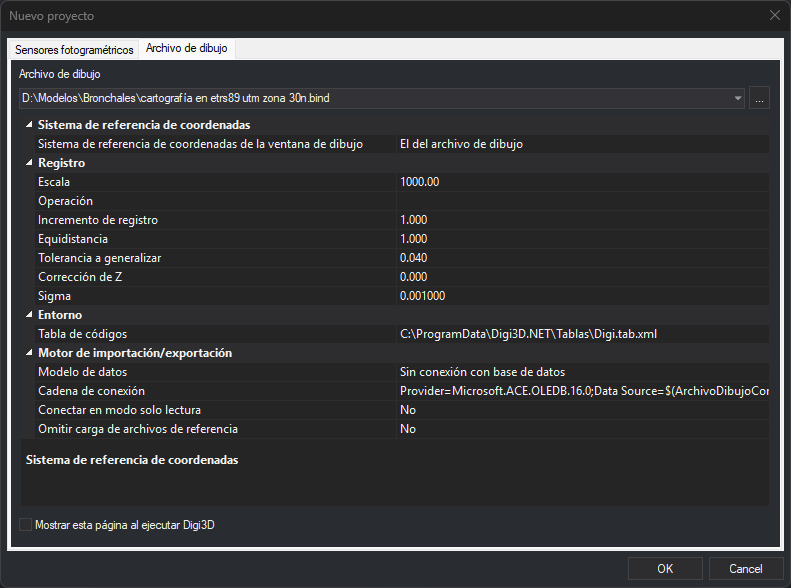
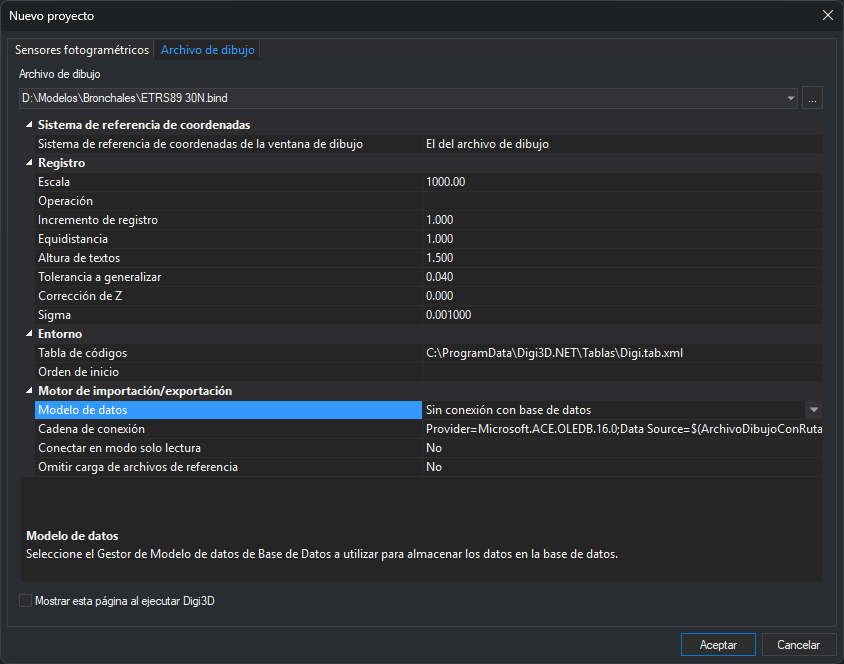
Capturas de Nuevo proyecto y del sensor WMS
Se actualizan las dos pestañas de Nuevo proyecto y se añaden al sensor WMS la propiedad Capa vacía, las propiedades con la capa elegida y el cuadro de restricciones de uso.

diff --git a/src/digi3d-ai/referencia/ventana-fotogrametrica/sensores/wms.md b/src/digi3d-ai/referencia/ventana-fotogrametrica/sensores/wms.md
@@ -14,6 +14,10 @@ En la pestaña [Sensores fotogramétricos](../../cuadros-de-dialogo/nuevo-proyec
 3. En **Capa**, elige la capa que quieres ver. Digi3D.AI no elige ninguna capa por defecto: si pulsas **Aceptar** sin elegirla, muestra el mensaje «Elige una capa del servidor WMS.» y el cuadro de diálogo sigue abierto.
 4. Al elegir la capa aparecen las demás propiedades, con los valores que propone Digi3D.AI.
 
+![Propiedad Capa vacía tras conectar con el servidor](../../../../images/sensor-wms-url-servidor.png)
+
+![Propiedades del sensor Web Map Service con la capa elegida](../../../../images/sensor-wms-propiedades.png)
+
 > En el servidor del PNOA (`http://www.ign.es/wms-inspire/pnoa-ma`), la ortofoto es la capa **Ortoimagen** (`OI.OrthoimageCoverage`). La capa **Mosaico** (`OI.MosaicElement`) muestra las huellas de los vuelos, no la ortofoto.
 
 | Propiedad | Descripción |
@@ -41,6 +45,8 @@ Al abrir el modelo, Digi3D.AI se conecta al servidor y muestra el cuadro de diá
 * **Persona de contacto**, **Organización**, **Posición**, **Dirección**, **Ciudad**, **Provincia**, **Código postal**, **País**, **Teléfono** y **Correo electrónico**.
 * **Precio**: las tarifas del servicio.
 * **Restricciones de uso**: las condiciones de uso del servicio.
+
+![Cuadro de diálogo Acepta o rechaza las restricciones de uso del servicio](../../../../images/sensor-wms-restricciones-de-uso.png)
 
 Pulsa **Acepto** para abrir el modelo. Con **No acepto**, el modelo no se abre y Digi3D.AI muestra el mensaje **No se han aceptado las condiciones de uso del servicio.** El cuadro aparece cada vez que se abre el modelo.
 
